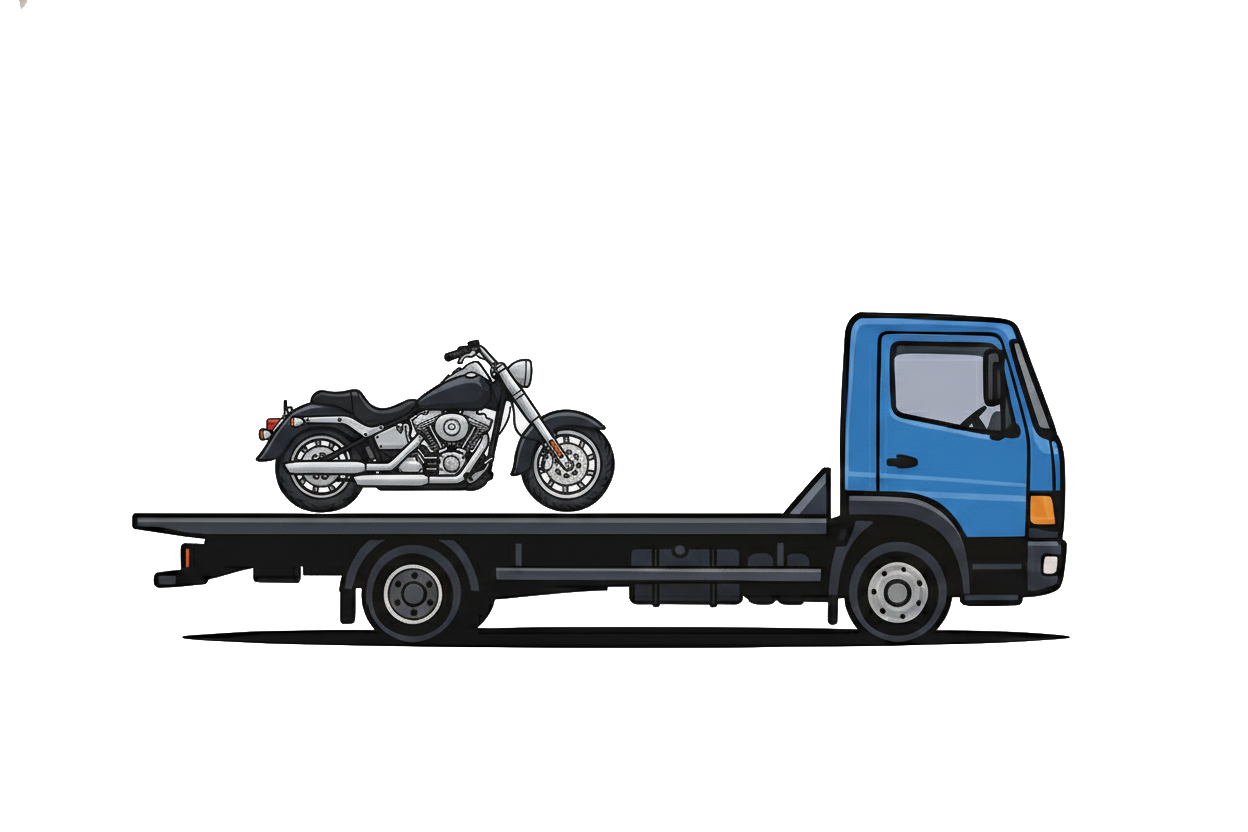
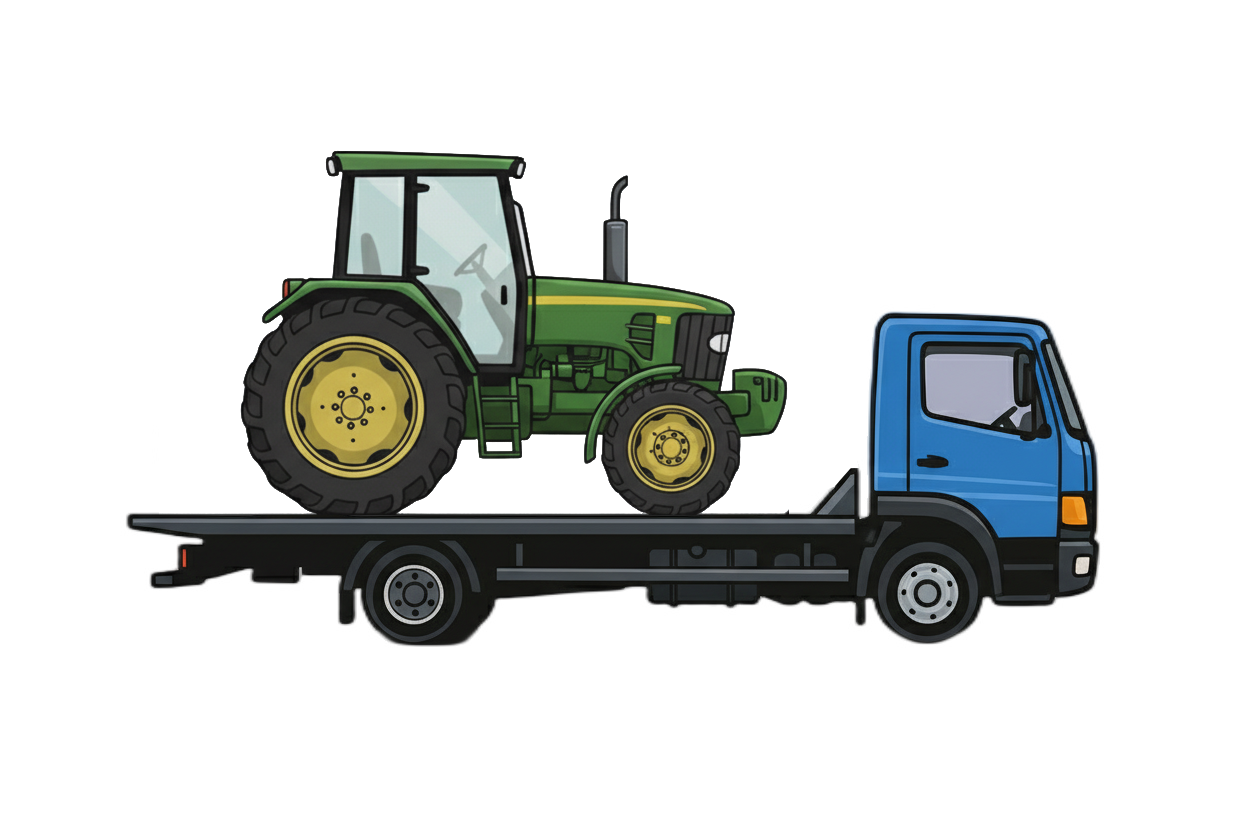
obnova1.2
obnova 1.2 new picture new town

Changed region(s): [[0.0938, 0.1562, 0.9062, 0.7812]]

diff --git a/index.html b/index.html
@@ -33,7 +33,7 @@
             </p>
             <div class="hero-actions">
               <a class="cta-button" href="tel:+380639609273">+38 (063) 960 92 73</a>
-              <a class="cta-button ghost" href="tel:+380630612492">+38 (063) 061 24 92</a>
+              <a class="cta-button ghost" href="tel:+380689110909">+38 (068) 911 09 09</a>
             </div>
           </div>
         </div>
@@ -103,7 +103,7 @@
               <a class="cta-button" href="tel:+380639609273">Замовити</a>
             </article>
             <article class="pricing-card">
-              <h3>Мотоцикли</h3>
+              <h3>С/г техніка</h3>
               <div class="card-icon">
                 <img
                   src="image/image-c.png"
@@ -111,7 +111,7 @@
                   loading="lazy"
                 />
               </div>
-              <p class="price">від 900 грн</p>
+              <p class="price">від 1200 грн</p>
               <a class="cta-button" href="tel:+380639609273">Замовити</a>
             </article>
             <article class="pricing-card">
@@ -123,7 +123,7 @@
                   loading="lazy"
                 />
               </div>
-              <p class="price">від 1300 грн</p>
+              <p class="price">від 1000 грн</p>
               <a class="cta-button" href="tel:+380639609273">Замовити</a>
             </article>
           </div>
@@ -232,17 +232,17 @@
           <h2>Працюємо в таких населених пунктах:</h2>
           <ul class="city-grid">
             <li>Умань</li>
+            <li>Черкаси</li>
+            <li>Сміла</li>
+            <li>Канів</li>
+            <li>Христинівка</li>
             <li>Жашків</li>
-            <li>Ульяновка</li>
-            <li>Голованівск</li>
-            <li>Теплик</li>
-            <li>Гайворон</li>
-            <li>Новоархангельск</li>
+            <li>Золотоноша</li>
             <li>Тальне</li>
-            <li>Буки</li>
-            <li>Гайсин</li>
-            <li>Ладижин</li>
-            <li>Звенігородка</li>
+            <li>Городище</li>
+            <li>Чигирин</li>
+            <li>Шпола</li>
+            <li>Звенигородка</li>
           </ul>
         </div>
       </section>
@@ -256,7 +256,7 @@
           </div>
           <div class="footer-contacts">
             <a href="tel:+380639609273">+38 (063) 960 92 73</a>
-            <a href="tel:+380630612492">+38 (063) 061 24 92</a>
+            <a href="tel:+380689110909">+38 (068) 911 09 09</a>
           </div>
         </div>
       <div class="footer-bottom">
